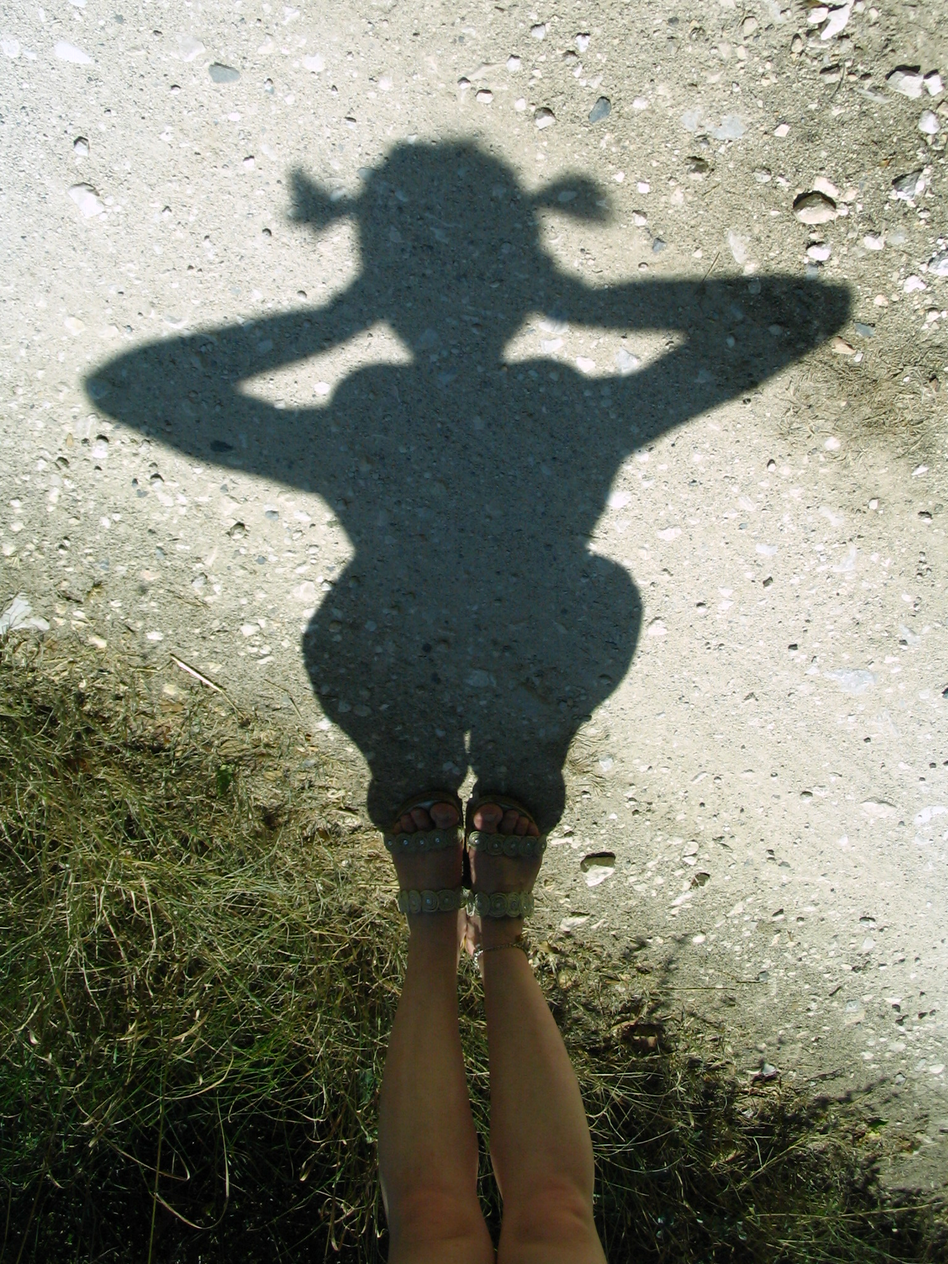
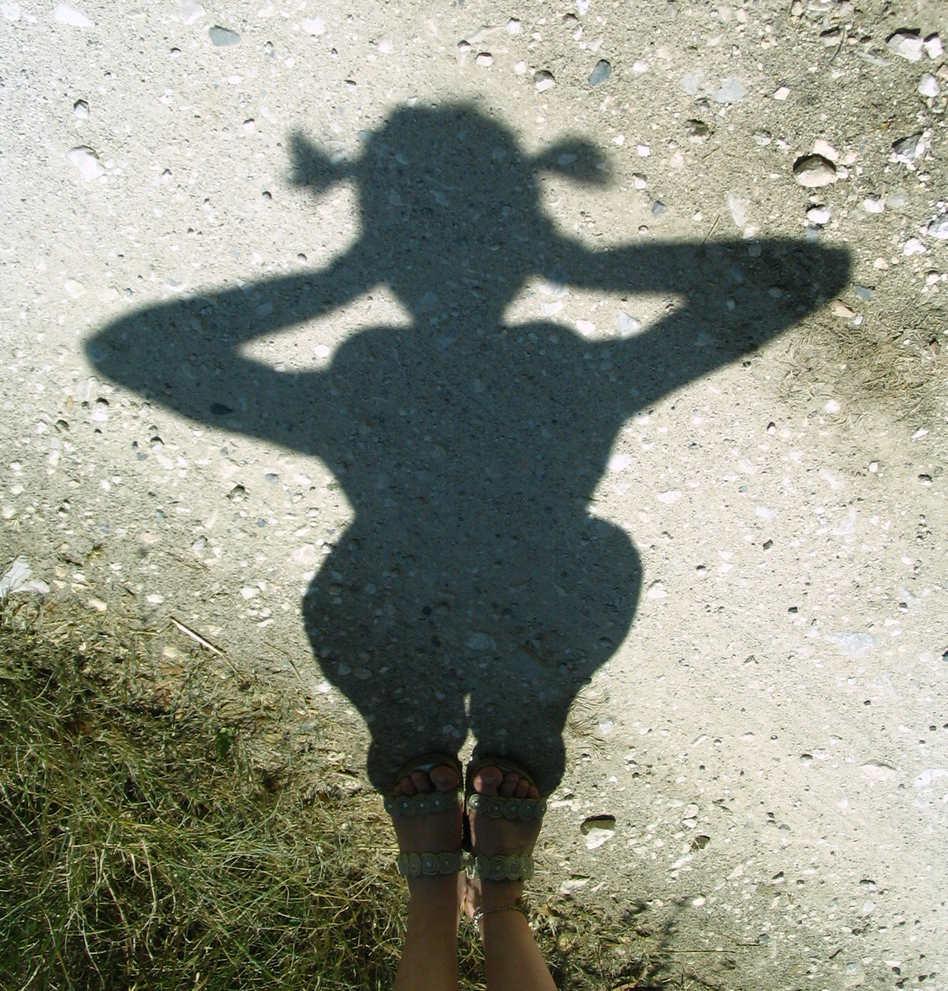
photo fixes

diff --git a/script.js b/script.js
@@ -72,20 +72,18 @@ try{
 const quizData = [
 { type: 'teacher', desc: `В 3 классе мы с подругой после продлёнки рванули в кабинет ИЗО — рисовать. Увлеклись так, что прозевали, как школа опустела и закрылась. Родители, не дождавшись нас, уже звонили по всем номерам: в школу, одноклассникам, учителям. Охранник уверял, что в здании ни души. От отчаяния они заявили в милицию. А нас в итоге нашли там же — за нашими «шедеврами». Дома ждали горячие объятия... и не менее горячие выговоры. 😄`, images: ['img1_1','img1_2','img1_3'], options: ['Елена Генджер','Татьяна Шаталова','Валентина Третьякова','Полионова Анна'], answer: 0,},
   {type: 'teacher', desc: `В школе отлично училась, ненавидела читать и учить стихи, а в свободное время плела из бисера и вязала кукол из вселенной Сейлормун. Однажды, в 8м классе на уроке географии, подверглась оскорблению со стороны одноклассника на предмет своей пышной фигуры. Прекратила потенциальный буллинг одной размашистой пощёчиной. За скверный характер носила прозвище Цербер.`, images: ['tanya1','img2_2','img2_3'], options: ['Татьяна Шаталова','Полионова Анна','Марина Хазова','Анна Цепляева'], answer: 0,},
-  {type: 'teacher', desc: `Я всегда ненавидела физику, прямо с 7 класса. По причине того, что на уроке мы всегда искали "s" в формуле s=vt, а на контрольной требовалось найти "v" или "t". Так я и ползла с триместровыми двойками и годовыми тройками до 11 класса. В 11 классе учительница сказала, что поставит мне "2" в аттестат, но тут пришли на помощь мои друзья (будущие студенты-бауманцы), которые уговорили учительницу взять меня в поездку в Калугу на какую-то конференцию. В итоге мы так классно провели там время, что учительница предложила мне сдавать экзамен по физике.`, images: ['alina2','alina3'], options: ['Алина Короткова','Татьяна Шаталова','Елена Генджер','Надежда Живчикова'], answer: 0,},
+  {type: 'teacher', desc: `Я всегда ненавидела физику, прямо с 7 класса. По причине того, что на уроке мы всегда искали "s" в формуле s=vt, а на контрольной требовалось найти "v" или "t". Так я и ползла с триместровыми двойками и годовыми тройками до 11 класса. В 11 классе учительница сказала, что поставит мне "2" в аттестат, но тут пришли на помощь мои друзья (будущие студенты-бауманцы), которые уговорили учительницу взять меня в поездку в Калугу на какую-то конференцию. В итоге мы так классно провели там время, что учительница предложила мне сдавать экзамен по физике.`, images: ['alina2','alina4'], options: ['Алина Короткова','Татьяна Шаталова','Елена Генджер','Надежда Живчикова'], answer: 0,},
   {type: 'teacher', desc: `Пела 9 лет в хоре и играла на домре. Любила математику и терпеть не могла физкультуру.`, images: ['img4_1'], options: ['Полионова Анна','Марина Хазова','Анна Цепляева','Анна Разумова'], answer: 0,},
   {type: 'teacher', desc: 'Любил биологию и ходил на кружок во дворец пионеров, где однажды ему рассказали про репликацию ДНК. На контрольной по этой теме он попросил дополнительный вопрос «пан или пропал», вспомнил лишь знакомое слово и не получил максимальный балл. Потом он учил геохронологические периоды, не получив высшую оценку, но запомнил их на всю жизнь — в аттестате по биологии не максимум, но память осталась.', images: ['viktor1'], options: ['Виктор Бардашев','Антонов Сергей','Алишер Сайфуллаев','Дмитрий Ярманов'], answer: 0,},
   {type: 'teacher', desc: `Я с 10 класса начала готовиться к поступлению в профильный вуз - все время после уроков проводила в академии и рисовала головы и геометрические фигуры. Приходила на уроки с большими папками и почти не тусила с одноклассниками, но дружила с ребятами на рисунке. В какой-то момент нас с подружкой начала узнавать вся кафедра, открывали нам аудитории и придумывали чем бы еще занять нас, раз базу уже освоили. Иногда рандомные преподаватели оставались с нами до ночи, чтобы сидеть и позировать нам для портрета. Было очень круто потом ночью возвращаться на метро домой и чувствовать себя взрослой. Но потом уже ближе у последнего звонку, накатила вселенская грусть и досада от осознания что с одноклассниками больше не будет столько времени и вообще конец школы, и стремление скорее вырасти поутихло. Тоже тогда все показались любимыми и самыми хорошими)`, images: ['img6_1','img6_2','img6_3'], options: ['Марина Хазова','Надежда Живчикова','Полионова Анна','Анна Цепляева'], answer: 0,},
   {type: 'teacher', desc: `На классном часу было об’явлено что совсем скоро нас будут принимать в пионеры. но принимать сначала будут не всех, а по пять человек от класса - тех кто активен и хорошо учится. Мне посчастливилось попасть в первую пятерку, это было большой радостью и гордостью. В фантазиях представлялось что нас будут принимать в величественном музее Ленина или на Красной площади. Через некоторое время нам сообщили что церемония будет проходить … на Преображенском кладбище. Так я узнала что там есть большое воинское захоронение и вечный огонь. А еще получила повод шокировать родных и близких, которым в ответ на вопрос: «А где вас будут посвящать/посвящали в пионеры?» могла отвечать «На кладбище!» и следить за реакцией. Так в сознании ученицы 4 класса поселился антропологический интерес и юмор помог справиться с фрустрацией.`, images: ['img7_1'], options: ['Анна Цепляева','Марина Хазова','Надежда Живчикова','Полионова Анна'], answer: 0,},
   {type: 'teacher', desc: `Предметы, которые я сдавала в 9 и 11 классе кардинально отличались. Несмотря на успехи (в багаже даже была парочка неплохо написанных олимпиад и отлично сданный ОГЭ), в один момент я решила, что хочу пойти совершенно в другую сторону, и променяла точные науки на гуманитарные. Помню, как все были этому удивлены и как меня отговаривали. Но с тех пор не было ни секунды, чтобы я пожалела: только в 10 классе я поняла, что все время до этого пыталась пойти стопами семьи, а не искать свое.`, images: ['dasha1','dasha2','dasha3'], options: ['Дарья Старицкая','Диана Михниченко','Елена Генджер','Дарья Трофимова'], answer: 0,},
-  {type: 'teacher', desc: `Я училась в "Б" классе, а Б класс всегда был для наших учителей "недостаточно умен, талантлив" и еще целый список всего, в сравнении с "А" классом. Поэтому все творческие активности в школе проходили только с учениками "А" класса. А мне очень хотелось попробовать себя в новых творческих активностях. Так я пошла на кастинг в команду квн, написала знакомому мальчику Боре и попросила меня взять в команду. В 10 классе ночами писала шутки и пересматривала старые выпуски КВН, чтобы понять логику того как создается юмор. Шутки получались очень непросто и не сразу. Но я так благодарю себя за смелость и настойчивость. После этого решилась еще попроситься вожатой в лагерь в 17 лет, встретила чудесных людей и по сей день верю, что однажды создам свой лагерь. Ура!`, images: ['anyar1','anyar2'
-
-  ], options: ['Анна Разумова','Полионова Анна','Анна Цепляева','Надежда Живчикова'], answer: 0,},
+  {type: 'teacher', desc: `Я училась в "Б" классе, а Б класс всегда был для наших учителей "недостаточно умен, талантлив" и еще целый список всего, в сравнении с "А" классом. Поэтому все творческие активности в школе проходили только с учениками "А" класса. А мне очень хотелось попробовать себя в новых творческих активностях. Так я пошла на кастинг в команду квн, написала знакомому мальчику Боре и попросила меня взять в команду. В 10 классе ночами писала шутки и пересматривала старые выпуски КВН, чтобы понять логику того как создается юмор. Шутки получались очень непросто и не сразу. Но я так благодарю себя за смелость и настойчивость. После этого решилась еще попроситься вожатой в лагерь в 17 лет, встретила чудесных людей и по сей день верю, что однажды создам свой лагерь. Ура!`, images: ['anyar1','anyar2','anyar3'], options: ['Анна Разумова','Полионова Анна','Анна Цепляева','Надежда Живчикова'], answer: 0,},
   {type: 'teacher', desc: `В 6 классе за компанию с подружкой я пошла в театральную студию. Было очень непросто, первый год ломались мои внутренние установки и чаще было тяжело, чем весело. Но я почему-то уже в 6 классе понимала, что я не сдамся и что мне это надо. В итоге я с театром была до своего 11 класса и вернулась в театр после универа. Этот опыт преодоления и долгого пути - огромная часть меня`, images: ['nadya1','nadya2','nadya3'], options: ['Надежда Живчикова','Елена Генджер','Марина Хазова','Анна Цепляева'], answer: 0,},
   {type: 'student', desc: 'Я ела лапшу палочками для макияжа в школьном лагере, и плакала от ее остроты.', images: ['katyai1'
 
   ], options: ['Иванова Екатерина','Ева Рогозина','Оля Колугина','Полина Петрова'], answer: 0,},
-  {type: 'student', desc: `возможно, это будет достаточно обычная история, но она искренняя и именно она сложила мое первое, сильное впечатление об одноклассниках и в принципе о нашей гимназии! был октябрь, я спешила на свою первую в жизни субботу (в Европейке), а тогда еще мы проводили ее не в школе. в общем то я очень волновалась, так как во-первых я была первый год в этой школе, ничего не знала и никого вживую не видела. а во-вторых я опаздывала, еще не понимала куда идти, и уже думала, зачем пришла….🫰 Но подходя, увидела моих одноклассников и еще некоторых людей, которые стояли кругом. Все мне помахали, что было так удивительно и приятно, и вообще ооочень приветливо восприняли. Мне стало легче, но все же было так непривычно, что абсолютно каждый человек понимающий и доброжелательный, без какого-то осуждения) в тот день я даже с кем-то пообщалась и подружилась (яна, оля, софа)🙏🏻🙏🏻🥹 надеюсь, что эти фотки вам хоть как-то помогут`, images: ['eva1','eva2','eva3'], options: ['Ева Рогозина','Оля Колугина','Маруся Маркина','Катя Иванова'], answer: 0,},
+  {type: 'student', desc: `возможно, это будет достаточно обычная история, но она искренняя и именно она сложила мое первое, сильное впечатление об одноклассниках и в принципе о нашей гимназии! был октябрь, я спешила на свою первую в жизни субботу (в Европейке), а тогда еще мы проводили ее не в школе. в общем то я очень волновалась, так как во-первых я была первый год в этой школе, ничего не знала и никого вживую не видела. а во-вторых я опаздывала, еще не понимала куда идти, и уже думала, зачем пришла….🫰 Но подходя, увидела моих одноклассников и еще некоторых людей, которые стояли кругом. Все мне помахали, что было так удивительно и приятно, и вообще ооочень приветливо восприняли. Мне стало легче, но все же было так непривычно, что абсолютно каждый человек понимающий и доброжелательный, без какого-то осуждения) в тот день я даже с кем-то пообщалась и подружилась (яна, оля, софа)🙏🏻🙏🏻🥹 надеюсь, что эти фотки вам хоть как-то помогут`, images: ['eva1','eva2','eva3'], options: ['Ева Рогозина','Оля Колугина','Маруся Маркина','Иванова Екатерина'], answer: 0,},
   {type: 'student', desc: `я путаю дискриминант и теорему Пифагора…когда нужно решить пример через дискриминант, я почему-то всегда говорю, что он решается по теореме Пифагора`, images: ['olya1','olya2','olya3'], options: ['Оля Колугина','Иванова Екатерина','Ева Рогозина','Маруся Маркина'], answer: 0,},
   {type: 'student', desc: `В один момент, резко по обстоятельствам интересных активностей от школы был придуман дуэт и два костюма. В которых этот дуэт было видно хоть из далека и привлекал внимание. А после дуэт частично появился в ролике на канале школы. На фотографиях будет части образа только одного человека из дуэта.`, images: ['artem1','artem2'], options: ['Артемий Добрусин','Маруся Маркина','Ева Рогозина','Алексей Морозов'], answer: 0,},
   {type: 'student', desc: `Прикреплю несколько, на выбор, так сказать, пхпх). В 4-м классе по инициативе директрисы мы с одноклассниками играли на укулеле в качестве уличных музыкантов и проходящие мимо дети дали нам около 300₽. Во 2-м классе моя мама была преподавателем театрального кружка в моей школе и мы ставили разные спектакли. За неделю до показа в школе мы активно рисовали «рекламные» плакаты, готовили костюмы, учили текст. Было сложно, но одновременно очень душевно и весело. В 3-м классе у меня и моих 2-х одноклассников был преподаватель по имени Макс. У нас не было конкретного предмета, которым мы с ним занимались, мы просто делали всякие классные штуки вместе: пекли хлеб, шили книжки, снимали клипы. Самое классное, что мы с ним делали - это строили домик на дереве. Он был в поле на берегу реки: там мы прыгали через тарзанку, разводили костёр и слушали на колонке Imagine Dragons. Было очень уютно, жалко, что почти не сохранилось фоток. А ещё у Макса был шикарный эрокез!!`, images: ['marusia1','marusia2','marusia3'], options: ['Маруся Маркина','Оля Колугина','Иванова Екатерина','Ева Рогозина'], answer: 0 }
